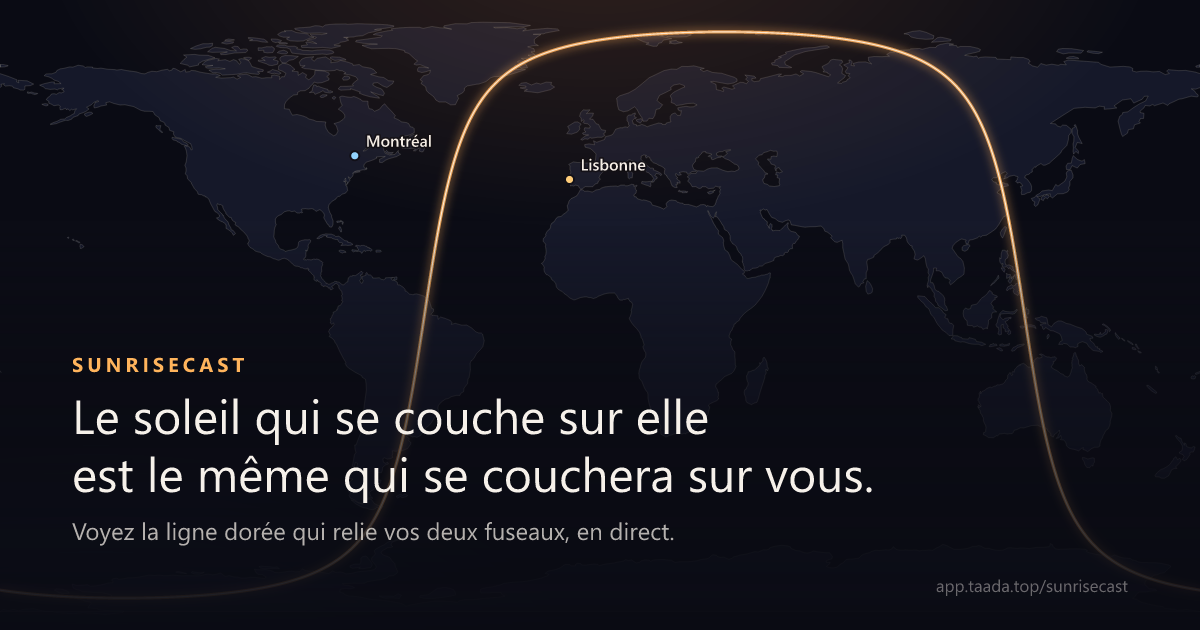
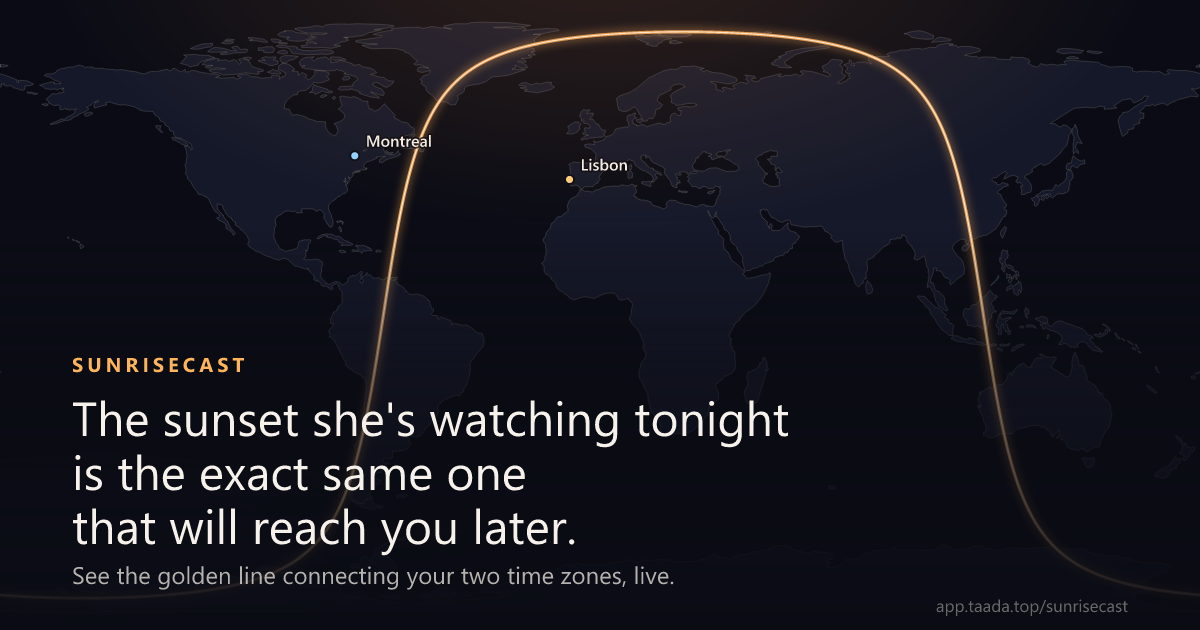
Fige l'aperçu Open Graph en anglais et relocalise les noms de ville à l'affichage
L'aperçu de lien (og:title/description, og.png) visait un public francophone alors
que 100% du démarchage prévu (r/LongDistance, r/USMilitarySO) est en anglais. Le
site reste bilingue, seul l'aperçu figé côté moissonneur passe en anglais, avec
og:locale:alternate fr_FR conservé.

Corrige aussi l'affichage des noms de ville : un lien créé en français transportait
« Lisbonne » tel quel jusque dans une interface anglaise. localizedName() dans
link.js retrouve la ville dans CITIES par coordonnées (tolérance 0,05°) et affiche
son nom dans la langue courante, sans jamais toucher au nom encodé dans le lien —
deux personnes en langues différentes continuent de produire la même URL.

diff --git a/src/app.js b/src/app.js
@@ -1,7 +1,7 @@
 import {subsolarPoint, nextSunset, nextSunrise, isDaylight} from './sun.js';
 import {render} from './map.js';
 import {searchCities, toPlace} from './data/cities.js';
-import {decodePair, buildUrl, encodePair} from './link.js';
+import {decodePair, buildUrl, encodePair, localizedName} from './link.js';
 import {t, tCount, localeTag, detectLanguage, loadStoredLanguage, storeLanguage} from './i18n.js';
 import * as SunCalc from './vendor/suncalc.js';
 
@@ -50,6 +50,16 @@ function computeMoment(now, a, b) {
     polarA: sa.polar,
     polarB: sb.polar
   };
+}
+
+// Nom affiché d'un lieu de state.pair, dans la langue courante — jamais `place.name`
+// directement pour un lieu venu du lien. state.pair.a/b gardent toujours le nom brut tel
+// qu'encodé (voir link.js), pour que buildUrl()/encodePair() puissent le réencoder à
+// l'identique quelle que soit la langue affichée à ce moment-là ; seul l'affichage passe
+// par localizedName(), recalculé à chaque appel donc toujours à jour après un changement
+// de langue, sans avoir besoin de redécoder le lien.
+function displayName(place) {
+  return localizedName(place, state.lang);
 }
 
 // ---------------------------------------------------------------- formats
@@ -141,8 +151,8 @@ function paint() {
     render(el('map'), {
       sub: subsolarPoint(now),
       places: [
-        {...a, key: 'a', color: COLOR_A},
-        {...b, key: 'b', color: COLOR_B}
+        {...a, name: displayName(a), key: 'a', color: COLOR_A},
+        {...b, name: displayName(b), key: 'b', color: COLOR_B}
       ],
       highlight: moment.impossible ? null : moment.first.place === a ? 'a' : 'b'
     });
@@ -159,18 +169,18 @@ function paint() {
   const untilFirst = first.at - now;
 
   const headline = untilFirst > 0
-    ? t(state.lang, 'sunsetIn', {place: first.place.name, delta: formatDelta(untilFirst)})
-    : t(state.lang, 'justLeft', {place: first.place.name});
+    ? t(state.lang, 'sunsetIn', {place: displayName(first.place), delta: formatDelta(untilFirst)})
+    : t(state.lang, 'justLeft', {place: displayName(first.place)});
   el('headline').textContent = headline;
 
   if (second.at) {
     const untilSecond = second.at - now;
     el('subline').textContent = untilSecond > 0
-      ? t(state.lang, 'arrivesIn', {place: second.place.name, delta: formatDelta(untilSecond)})
-      : t(state.lang, 'reachedAgo', {place: second.place.name, delta: formatDelta(-untilSecond)});
+      ? t(state.lang, 'arrivesIn', {place: displayName(second.place), delta: formatDelta(untilSecond)})
+      : t(state.lang, 'reachedAgo', {place: displayName(second.place), delta: formatDelta(-untilSecond)});
   } else {
     const polar = t(state.lang, second.polar === 'day' ? 'polarDayLower' : 'polarNightLower');
-    el('subline').textContent = t(state.lang, 'polarNote', {place: second.place.name, polar});
+    el('subline').textContent = t(state.lang, 'polarNote', {place: displayName(second.place), polar});
   }
 
   el('gap').textContent = gapMs
@@ -203,7 +213,7 @@ function updateToday(now, a, b, moment) {
 }
 
 function fillTodayItem(prefix, place, at, now) {
-  el(`${prefix}-name`).textContent = place.name;
+  el(`${prefix}-name`).textContent = displayName(place);
   const time = el(`${prefix}-time`);
   if (!at) {
     // Nuit ou jour polaire ce cycle-ci : rien à afficher, le statut est déjà
@@ -223,7 +233,7 @@ function fillCard(id, place, now, color) {
   const setTime = localTime(set.at, place);
 
   card.querySelector('.dot').style.background = color;
-  card.querySelector('.city').textContent = place.name;
+  card.querySelector('.city').textContent = displayName(place);
   card.querySelector('.country').textContent = place.country || '';
   card.querySelector('.clock').textContent = time ? t(state.lang, 'localTimeSuffix', {time}) : '';
 
@@ -377,7 +387,7 @@ function scheduleNotification() {
     state.notifyTimer = null;
     try {
       new Notification(t(state.lang, 'notifTitle'), {
-        body: t(state.lang, 'notifBody', {place: b.name}),
+        body: t(state.lang, 'notifBody', {place: displayName(b)}),
         tag: 'sunrisecast-sunset'
       });
     } catch {

diff --git a/test/link.test.js b/test/link.test.js
@@ -11,7 +11,7 @@
 
 import {test, describe} from 'node:test';
 import assert from 'node:assert/strict';
-import {encodePair, decodePair, buildUrl} from '../src/link.js';
+import {encodePair, decodePair, buildUrl, localizedName} from '../src/link.js';
 
 describe('aller-retour encodage / décodage', () => {
   test('paire simple : tous les champs survivent', () => {
@@ -131,6 +131,53 @@ describe('noms de lieu vides ou trop longs', () => {
     const hash = encodePair(a, {name: 'X', country: 'Y', lat: 1, lng: 1, tz: null});
     const decoded = decodePair(hash);
     assert.equal(decoded.a.name.length, 60);
+  });
+});
+
+describe('localizedName — nom d’affichage relocalisé au décodage', () => {
+  test('une ville connue de CITIES est relocalisée dans la langue demandée', () => {
+    // Lien créé en français (nom encodé « Lisbonne »), lu depuis une interface anglaise.
+    const a = {name: 'Lisbonne', country: 'Portugal', lat: 38.72, lng: -9.14, tz: 'Europe/Lisbon'};
+    const b = {name: 'Montréal', country: 'Canada', lat: 45.5, lng: -73.57, tz: 'America/Toronto'};
+    const decoded = decodePair(encodePair(a, b));
+    assert.equal(localizedName(decoded.a, 'en'), 'Lisbon');
+    assert.equal(localizedName(decoded.b, 'en'), 'Montreal');
+    // Et redemandé en français, on retrouve le nom français d’origine, même si le nom
+    // encodé était en fait déjà en anglais (cas d’un lien créé côté anglophone, lu par
+    // un francophone) : le nom encodé n’a pas d’importance, seules les coordonnées comptent.
+    const encodedInEnglish = encodePair({...a, name: 'Lisbon'}, {...b, name: 'Montreal'});
+    const decodedEn = decodePair(encodedInEnglish);
+    assert.equal(localizedName(decodedEn.a, 'fr'), 'Lisbonne');
+    assert.equal(localizedName(decodedEn.b, 'fr'), 'Montréal');
+  });
+
+  test('decodePair lui-même ne relocalise jamais : il rend le nom brut tel qu’encodé', () => {
+    // Contrat central du correctif : la relocalisation se fait à l’affichage
+    // (localizedName), jamais dans decodePair — sinon buildUrl()/encodePair() sur une
+    // paire déjà décodée réencoderait le nom localisé, et deux personnes en langues
+    // différentes produiraient des liens divergents pour la même paire.
+    const a = {name: 'Lisbonne', country: 'Portugal', lat: 38.72, lng: -9.14, tz: 'Europe/Lisbon'};
+    const b = {name: 'Montréal', country: 'Canada', lat: 45.5, lng: -73.57, tz: 'America/Toronto'};
+    const decoded = decodePair(encodePair(a, b));
+    assert.equal(decoded.a.name, 'Lisbonne');
+    assert.equal(decoded.b.name, 'Montréal');
+  });
+
+  test('coordonnées légèrement décalées (arrondi) restent reconnues à faible tolérance', () => {
+    const near = {name: 'Lisbonne', lat: 38.72 - 0.04, lng: -9.14 + 0.04};
+    assert.equal(localizedName(near, 'en'), 'Lisbon');
+  });
+
+  test('coordonnées trop éloignées ne trouvent aucune correspondance', () => {
+    const far = {name: 'Quelque part', lat: 38.72 + 0.3, lng: -9.14};
+    assert.equal(localizedName(far, 'en'), 'Quelque part');
+  });
+
+  test('une position saisie à la main (hors CITIES) n’est jamais renommée', () => {
+    // 10, 10 n’est proche d’aucune ville de CITIES.
+    const manual = {name: '10.00, 10.00', lat: 10, lng: 10};
+    assert.equal(localizedName(manual, 'en'), '10.00, 10.00');
+    assert.equal(localizedName(manual, 'fr'), '10.00, 10.00');
   });
 });
 

diff --git a/src/link.js b/src/link.js
@@ -1,4 +1,7 @@
-// Encodage de la paire dans le fragment de l'URL.
+// Encodage de la paire dans le fragment de l'URL. Voir aussi localizedName() plus bas,
+// qui corrige au DÉCODAGE (jamais à l'encodage) le nom d'affichage d'un lieu déjà connu
+// de CITIES : un lien créé en français transporte « Lisbonne », et une interface
+// anglaise doit pouvoir en tirer « Lisbon » sans que cela touche au lien lui-même.
 //
 // Le fragment (#) n'est jamais envoyé au serveur, jamais journalisé, jamais mis en cache
 // par un intermédiaire. Les deux lieux vivent uniquement dans le lien que les deux
@@ -14,7 +17,16 @@
 // encodePair/buildUrl gardent leur signature à deux arguments valide pour tout appel
 // existant — le paramètre de langue est un 3e argument optionnel, jamais requis.
 
+import {CITIES} from './data/cities.js';
+
 const SEP = '|';
+
+// Marge autour des coordonnées décodées pour retrouver la ville d'origine dans CITIES.
+// encodePlace arrondit à 4 décimales (round() plus bas) : l'erreur d'arrondi réelle est
+// donc négligeable (< 0,0001°). 0,05° reste largement au-dessus de ça et couvre aussi
+// l'écart entre la précision à 4 décimales du lien et la précision à 2 décimales
+// stockée dans CITIES.
+const CITY_MATCH_TOLERANCE = 0.05;
 
 export function encodePair(a, b, lang) {
   const params = new URLSearchParams();
@@ -83,4 +95,31 @@ function isValidTimeZone(tz) {
 
 function round(n) {
   return Math.round(Number(n) * 10000) / 10000;
+}
+
+// Nom d'affichage d'un lieu décodé, dans la langue courante de l'interface — PAS le
+// nom encodé dans le lien, qui ne change jamais (voir l'en-tête du fichier).
+//
+// Cherche dans CITIES la ville la plus proche des coordonnées de `place`, à
+// CITY_MATCH_TOLERANCE près sur chaque axe. Si on la trouve, on rend son nom dans la
+// langue demandée (colonne fr ou colonne en de CITIES). Sinon on rend le nom du lien
+// tel quel : une position saisie à la main (coordonnées libres, jamais dans CITIES)
+// n'a par construction pas de traduction et ne doit jamais être renommée.
+//
+// N'appelle jamais ceci pour reconstruire un lien à partager (encodePair / buildUrl) :
+// ce serait réencoder le nom localisé plutôt que le nom d'origine, et deux personnes en
+// langues différentes produiraient alors des URL divergentes pour la même paire.
+export function localizedName(place, lang) {
+  if (!place) return place;
+  let best = null;
+  let bestDist = Infinity;
+  for (const c of CITIES) {
+    const dLat = Math.abs(c[2] - place.lat);
+    const dLng = Math.abs(c[3] - place.lng);
+    if (dLat > CITY_MATCH_TOLERANCE || dLng > CITY_MATCH_TOLERANCE) continue;
+    const dist = dLat * dLat + dLng * dLng;
+    if (dist < bestDist) { bestDist = dist; best = c; }
+  }
+  if (!best) return place.name;
+  return lang === 'en' ? best[5] : best[0];
 }

diff --git a/index.html b/index.html
@@ -10,18 +10,26 @@
 <!-- Open Graph / Twitter Card : l'aperçu qui s'affiche quand ce lien est collé dans
      WhatsApp, iMessage, Discord ou Reddit. og:image doit être une URL ABSOLUE, les
      moissonneurs ne résolvent pas les chemins relatifs. Régénérer og.png avec
-     `node tools/build-og.mjs` si le titre ou la description ci-dessous changent. -->
+     `node tools/build-og.mjs` si le titre ou la description ci-dessous changent.
+
+     Aperçu figé en anglais volontairement, alors que le site s'adapte au visiteur :
+     un moissonneur sert la même carte à tout le monde, et 100 % du démarchage prévu
+     (r/LongDistance, r/USMilitarySO) est en anglais. Le <title> et la meta description
+     ci-dessous restent en français : ce sont eux que src/app.js retraduit au chargement
+     via document.title = t(lang, 'pageTitle'), l'aperçu Open Graph n'est jamais lu par
+     ce code JS puisqu'un moissonneur ne charge pas la page. -->
 <meta property="og:type" content="website">
 <meta property="og:url" content="https://app.taada.top/sunrisecast/">
-<meta property="og:title" content="SunriseCast — le même coucher de soleil">
-<meta property="og:description" content="Le soleil qui se couche sur elle est le même qui se couchera sur vous. Voyez la ligne dorée qui relie vos deux fuseaux, en direct.">
+<meta property="og:title" content="SunriseCast — The Same Sunset">
+<meta property="og:description" content="The sunset she's watching tonight is the exact same one that will reach you later.">
 <meta property="og:image" content="https://app.taada.top/sunrisecast/og.png">
 <meta property="og:image:width" content="1200">
 <meta property="og:image:height" content="630">
-<meta property="og:locale" content="fr_FR">
+<meta property="og:locale" content="en_GB">
+<meta property="og:locale:alternate" content="fr_FR">
 <meta name="twitter:card" content="summary_large_image">
-<meta name="twitter:title" content="SunriseCast — le même coucher de soleil">
-<meta name="twitter:description" content="Le soleil qui se couche sur elle est le même qui se couchera sur vous. Voyez la ligne dorée qui relie vos deux fuseaux, en direct.">
+<meta name="twitter:title" content="SunriseCast — The Same Sunset">
+<meta name="twitter:description" content="The sunset she's watching tonight is the exact same one that will reach you later.">
 <meta name="twitter:image" content="https://app.taada.top/sunrisecast/og.png">
 <link rel="manifest" href="manifest.webmanifest">
 <!-- iOS ignore largement le web manifest pour l'ajout à l'écran d'accueil : ces balises

diff --git a/sw.js b/sw.js
@@ -14,7 +14,12 @@
 // visiteur ayant déjà le service worker v1 installé restait bloqué sur l'ancien site
 // francophone-seul indéfiniment sans ce bump, puisque sw.js lui-même n'a pas changé de
 // contenu et ne déclenche donc jamais de réinstallation.
-const CACHE_VERSION = 'sunrisecast-v2';
+//
+// v3 (2026-08-30) : aperçu Open Graph figé en anglais (index.html) et noms de ville
+// relocalisés à la lecture du lien (app.js, link.js). Ces trois fichiers sont dans
+// ASSET_PATHS ci-dessous : sans ce bump, un visiteur avec le service worker v2 déjà
+// installé continuerait de servir l'ancien app.js/link.js depuis son cache local.
+const CACHE_VERSION = 'sunrisecast-v3';
 
 // Chemins relatifs à la portée du service worker (le dossier où vit sw.js),
 // pas à la racine du domaine : ça laisse le site fonctionner posé dans un
